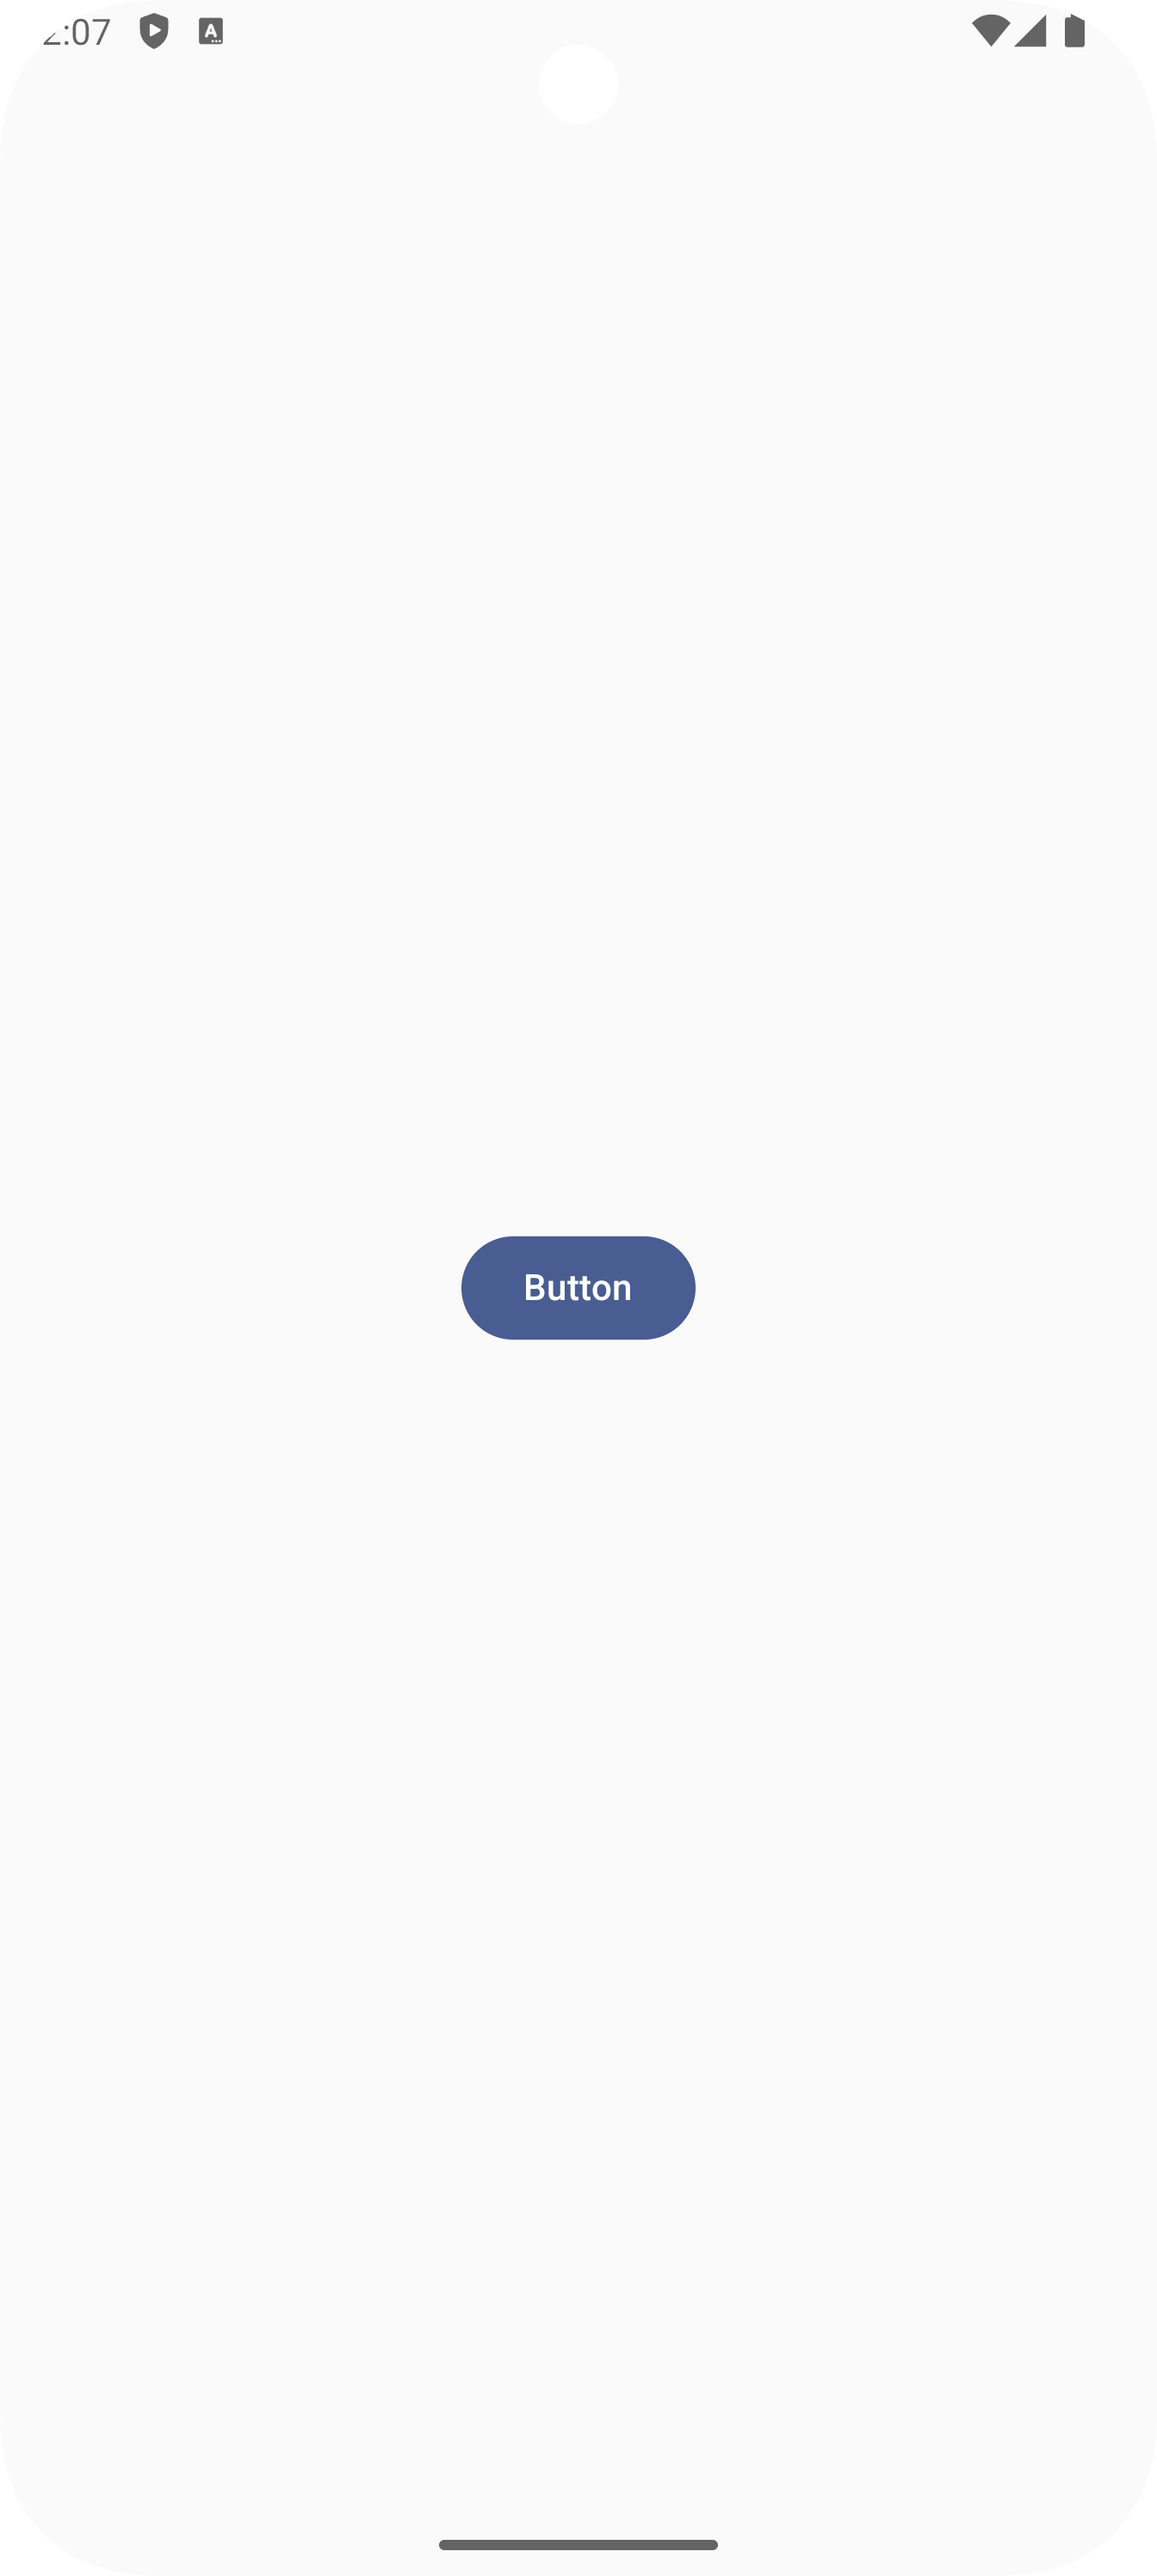
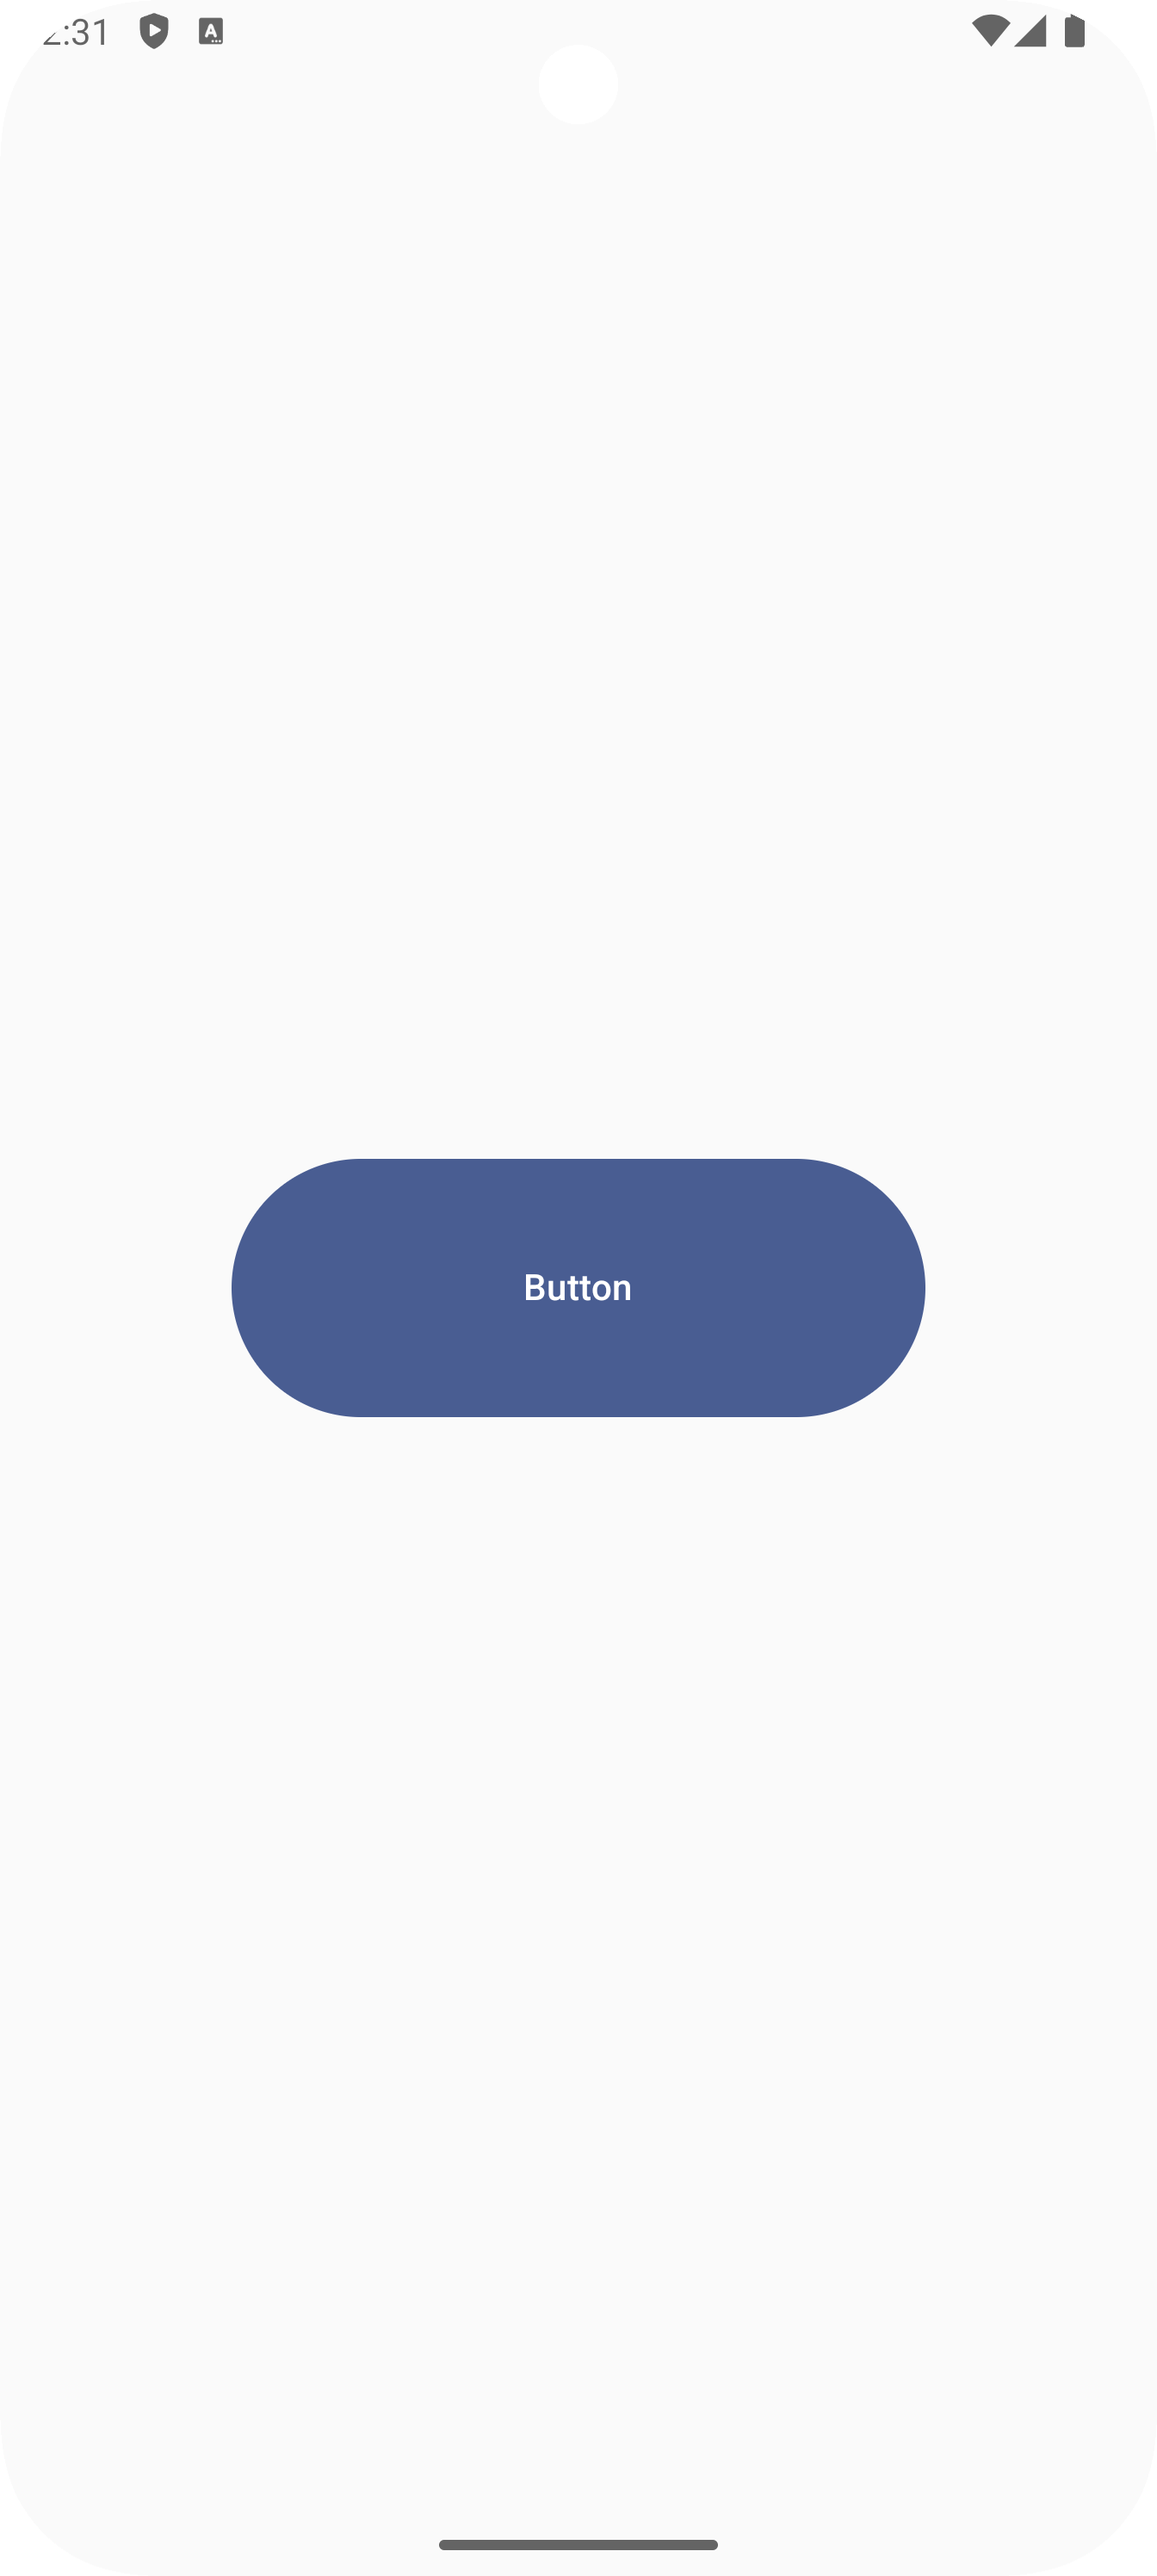
update

Changed region(s): [[0.1875, 0.4352, 0.8125, 0.5595], [0.0625, 0.0, 0.0938, 0.0311]]

diff --git a/src/content/cards/android-button.md b/src/content/cards/android-button.md
@@ -8,13 +8,25 @@ image: /images/Aos-basicbutton.png
 ---
 
 ```kotlin
+import androidx.compose.foundation.layout.fillMaxWidth
+import androidx.compose.foundation.layout.height
 import androidx.compose.material.Button
 import androidx.compose.material.Text
+import androidx.compose.ui.Modifier
+import androidx.compose.ui.unit.dp
 import androidx.compose.runtime.Composable
 
 @Composable
 fun BasicButton() {
-    Button(onClick = { /* TODO: 클릭 처리 */ }) {
+    Button(
+        onClick = { /* TODO: 클릭 처리 */ },
+        //버튼 크기 조정
+        modifier = Modifier
+            // 버튼의 너비를 화면의 60%로 설정
+            .fillMaxWidth(0.6f)
+            // 버튼의 높이를 60dp로 설정
+            .height(100.dp)
+    ) {
         Text("Button")
     }
 }
@@ -25,7 +37,8 @@ fun BasicButton() {
 이 예제는 Jetpack Compose에서 기본 버튼을 생성하는 가장 간단한 방법을 보여줍니다:
 	
 1. `Button` 컴포저블을 사용하여 버튼 생성  
-2. `onClick` 람다에 클릭 시 동작 정의  
+2. `onClick` 람다에 클릭 시 동작 정의 
+3. `modifier` 를 통해 버튼 크기 조정
 3. `Text` 를 통해 버튼 내부 텍스트 설정
 
 
@@ -34,3 +47,4 @@ fun BasicButton() {
 - 기본 버튼 생성  
 - 클릭 이벤트 처리 가능  
 - 내부 텍스트 지정  
+- 버튼 크기 변경  
